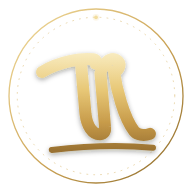
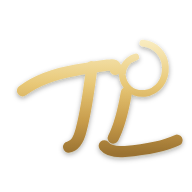
feat: redesign TL monogram after the user's reference — slanted interlocking calligraphy
Rebuilt from the attached reference image: a dynamic slanted TL, no
ring/orbit/underline — pure letters like the reference.

- T: long swash crossbar with an entry curl sweeping up-right, stem
  descending on the same italic slant
- L: big open oval apex loop, down-sweep running parallel to the T stem
  (the reference's paired diagonals), and a long thick baseline sweep
  exiting right with a rising flick
- calligraphic stroke weights: sweeps 21, stem 17, bar 15, loop 14
- write-on: bar -> stem -> L (loop -> sweep -> baseline), 0.25-2.05s,
  pen-tip glints retrace every 7s

Reads unmistakably as T + L (the earlier ligature read as 'tr' — the
letters are distinct again, interlocked diagonally like the reference).

Verified: progressive draw 0% -> 8.6% (18.3% letters), liveness ~1-2k
px; header 7.6% gold @48px; loader logo-only, 0% -> 8.2% in-app; footer
6.8%; favicons regenerated (48px 10.2%, 32px 9.9%, 16px 3.9-5.1%),
cache-bust v5. Tests 8/8, build green.

diff --git a/pages/_document.js b/pages/_document.js
@@ -4,12 +4,12 @@ export default function Document() {
   return (
     <Html>
       <Head>
-        <link rel="shortcut icon" href="/favicon.ico?v=4" />
-        <link rel="icon" type="image/x-icon" href="/favicon.ico?v=4" />
-        <link rel="icon" type="image/svg+xml" href="/favicon.svg?v=4" />
-        <link rel="icon" type="image/png" sizes="32x32" href="/favicon-32x32.png?v=4" />
-        <link rel="icon" type="image/png" sizes="16x16" href="/favicon-16x16.png?v=4" />
-        <link rel="apple-touch-icon" sizes="180x180" href="/apple-touch-icon.png?v=4" />
+        <link rel="shortcut icon" href="/favicon.ico?v=5" />
+        <link rel="icon" type="image/x-icon" href="/favicon.ico?v=5" />
+        <link rel="icon" type="image/svg+xml" href="/favicon.svg?v=5" />
+        <link rel="icon" type="image/png" sizes="32x32" href="/favicon-32x32.png?v=5" />
+        <link rel="icon" type="image/png" sizes="16x16" href="/favicon-16x16.png?v=5" />
+        <link rel="apple-touch-icon" sizes="180x180" href="/apple-touch-icon.png?v=5" />
         <link rel="preconnect" href="https://fonts.googleapis.com" />
         <link rel="preconnect" href="https://fonts.gstatic.com" crossOrigin="true" />
         <link href="https://fonts.googleapis.com/css2?family=Plus+Jakarta+Sans:wght@400;500;600;700;800&display=swap" rel="stylesheet" />

diff --git a/src/components/Layout/Metadata.jsx b/src/components/Layout/Metadata.jsx
@@ -20,12 +20,12 @@ export const SiteMetadata = ({
       <meta name="theme-color" content="#0369A1" />
       <meta name="color-scheme" content="light" />
 
-      <link rel="shortcut icon" href="/favicon.ico?v=4" />
-      <link rel="icon" type="image/x-icon" href="/favicon.ico?v=4" />
-      <link rel="icon" type="image/svg+xml" href="/favicon.svg?v=4" />
-      <link rel="icon" type="image/png" sizes="32x32" href="/favicon-32x32.png?v=4" />
-      <link rel="icon" type="image/png" sizes="16x16" href="/favicon-16x16.png?v=4" />
-      <link rel="apple-touch-icon" sizes="180x180" href="/apple-touch-icon.png?v=4" />
+      <link rel="shortcut icon" href="/favicon.ico?v=5" />
+      <link rel="icon" type="image/x-icon" href="/favicon.ico?v=5" />
+      <link rel="icon" type="image/svg+xml" href="/favicon.svg?v=5" />
+      <link rel="icon" type="image/png" sizes="32x32" href="/favicon-32x32.png?v=5" />
+      <link rel="icon" type="image/png" sizes="16x16" href="/favicon-16x16.png?v=5" />
+      <link rel="apple-touch-icon" sizes="180x180" href="/apple-touch-icon.png?v=5" />
       <link rel="manifest" href="/site.webmanifest" />
 
       <meta property="og:type" content="website" />
